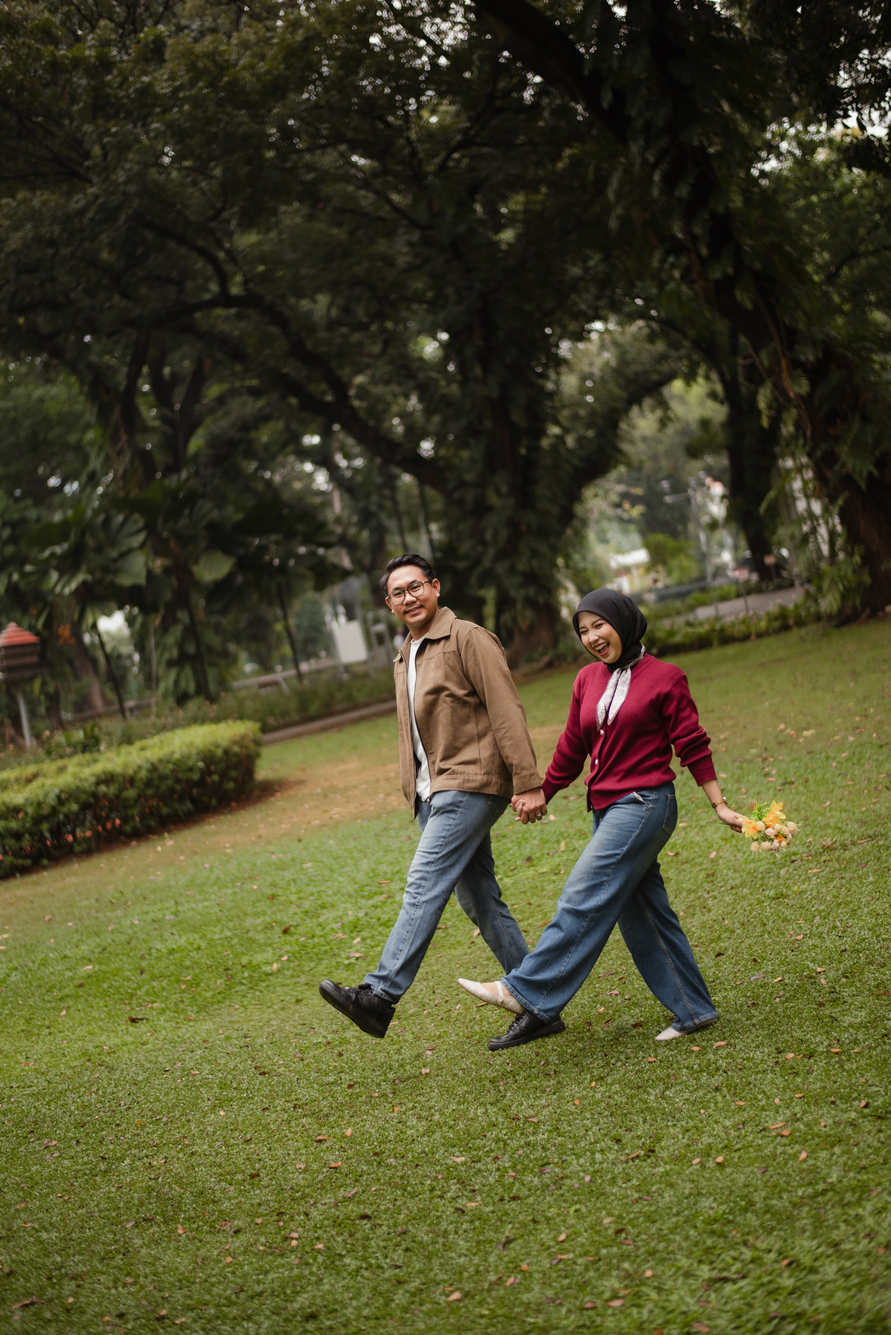
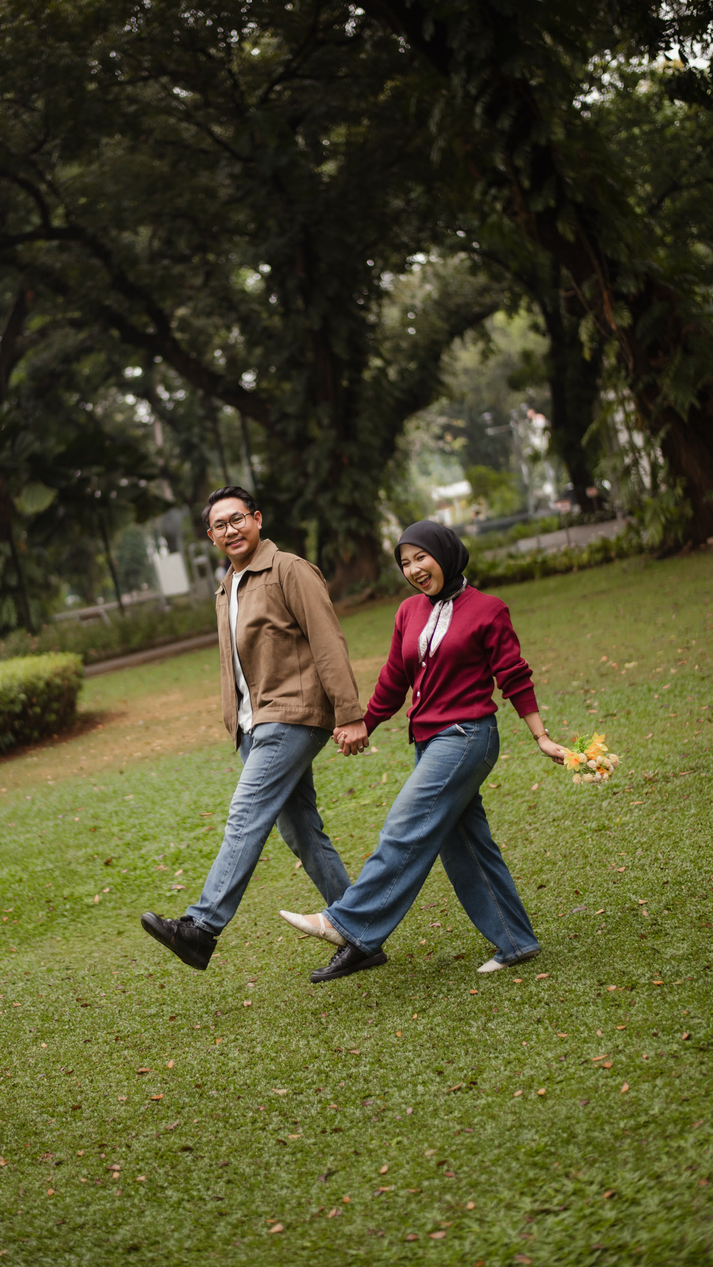
feat: rename Our Story, center couple/save-the-date photos, use 2 background photos

diff --git a/src/components/CustomizerPanel.tsx b/src/components/CustomizerPanel.tsx
@@ -1661,13 +1661,6 @@ export const CustomizerPanel: React.FC<CustomizerPanelProps> = ({ currentLang })
                           setBgPhotos([
                             '/slideshow/slideshow1.jpg',
                             '/slideshow/slideshow2.jpg',
-                            '/slideshow/slideshow3.jpg',
-                            '/slideshow/slideshow4.jpg',
-                            '/slideshow/slideshow5.jpg',
-                            '/slideshow/slideshow6.jpg',
-                            '/slideshow/slideshow7.jpg',
-                            '/slideshow/slideshow8.jpg',
-                            '/slideshow/slideshow9.jpg',
                           ])
                         }
                         className="text-[11px] text-white/60 hover:text-white underline cursor-pointer"

diff --git a/src/components/SaveTheDateSection.tsx b/src/components/SaveTheDateSection.tsx
@@ -47,7 +47,7 @@ export const SaveTheDateSection: React.FC<SaveTheDateSectionProps> = ({ currentL
   })();
 
   // Use a distinct high-resolution portrait photo from the compressed package (different from /couple.jpg)
-  const photoSrc = '/photos/gallery-3.jpg';
+  const photoSrc = '/photos/save-the-date.jpg';
 
   return (
     <section
@@ -73,7 +73,7 @@ export const SaveTheDateSection: React.FC<SaveTheDateSectionProps> = ({ currentL
           className={`object-cover w-full h-full absolute inset-0 opacity-80 ${
             isPreview ? 'select-none pointer-events-none' : ''
           }`}
-          style={{ objectPosition: '41% 62%' }}
+          style={{ objectPosition: 'center center' }}
           loading="lazy"
           onContextMenu={(e) => {
             if (isPreview) e.preventDefault();

diff --git a/src/data/invitation.ts b/src/data/invitation.ts
@@ -298,7 +298,7 @@ const defaultInvitationData: InvitationData = {
         minutes: 'Mins',
         seconds: 'Secs',
       },
-      ourStory: 'Our Story',
+      ourStory: 'Ours became forever',
       storyHeadline: 'Ours became forever',
       gallery: 'Visual Memoir',
       gallerySubtitle: 'Moments captured on 35mm film',
@@ -348,7 +348,7 @@ const defaultInvitationData: InvitationData = {
         groom: 'The Groom',
         bride: 'The Bride',
         events: 'Celebration',
-        story: 'Our Story',
+        story: 'Ours became forever',
         gallery: 'Gallery',
         access: 'Entrance Pass',
         live: 'Prewedding Video',

diff --git a/src/components/CoupleSection.tsx b/src/components/CoupleSection.tsx
@@ -69,7 +69,7 @@ export const CoupleSection: React.FC<CoupleSectionProps> = ({
             src={couplePhoto}
             alt={`${couple.bride.name} & ${couple.groom.name}`}
             className="absolute inset-0 w-full h-full object-cover select-none pointer-events-none"
-            style={{ objectPosition: '58% 55%', filter: 'brightness(0.82)' }}
+            style={{ objectPosition: 'center center', filter: 'brightness(0.82)' }}
             onError={() => setPhotoError(true)}
           />
         ) : (

diff --git a/src/components/BackgroundVideo.tsx b/src/components/BackgroundVideo.tsx
@@ -10,13 +10,6 @@ interface BackgroundVideoProps {
 const DEFAULT_SLIDES = [
   '/slideshow/slideshow1.jpg',
   '/slideshow/slideshow2.jpg',
-  '/slideshow/slideshow3.jpg',
-  '/slideshow/slideshow4.jpg',
-  '/slideshow/slideshow5.jpg',
-  '/slideshow/slideshow6.jpg',
-  '/slideshow/slideshow7.jpg',
-  '/slideshow/slideshow8.jpg',
-  '/slideshow/slideshow9.jpg',
 ];
 
 export const BackgroundVideo: React.FC<BackgroundVideoProps> = ({ className = '', hasOpened = false }) => {

diff --git a/src/context/InvitationContext.tsx b/src/context/InvitationContext.tsx
@@ -368,13 +368,6 @@ export const InvitationProvider: React.FC<{ children: React.ReactNode }> = ({ ch
     return [
       '/slideshow/slideshow1.jpg',
       '/slideshow/slideshow2.jpg',
-      '/slideshow/slideshow3.jpg',
-      '/slideshow/slideshow4.jpg',
-      '/slideshow/slideshow5.jpg',
-      '/slideshow/slideshow6.jpg',
-      '/slideshow/slideshow7.jpg',
-      '/slideshow/slideshow8.jpg',
-      '/slideshow/slideshow9.jpg',
     ];
   });
 

diff --git a/src/components/Story.tsx b/src/components/Story.tsx
@@ -39,7 +39,7 @@ export const Story: React.FC<StoryProps> = ({ currentLang }) => {
         </p>
 
         <SwashHeading
-          text={isId ? 'KISAH KAMI' : 'OUR STORY'}
+          text={isId ? 'KISAH KAMI' : 'Ours became forever'}
           className="mx-auto text-center"
         />
       </motion.div>
